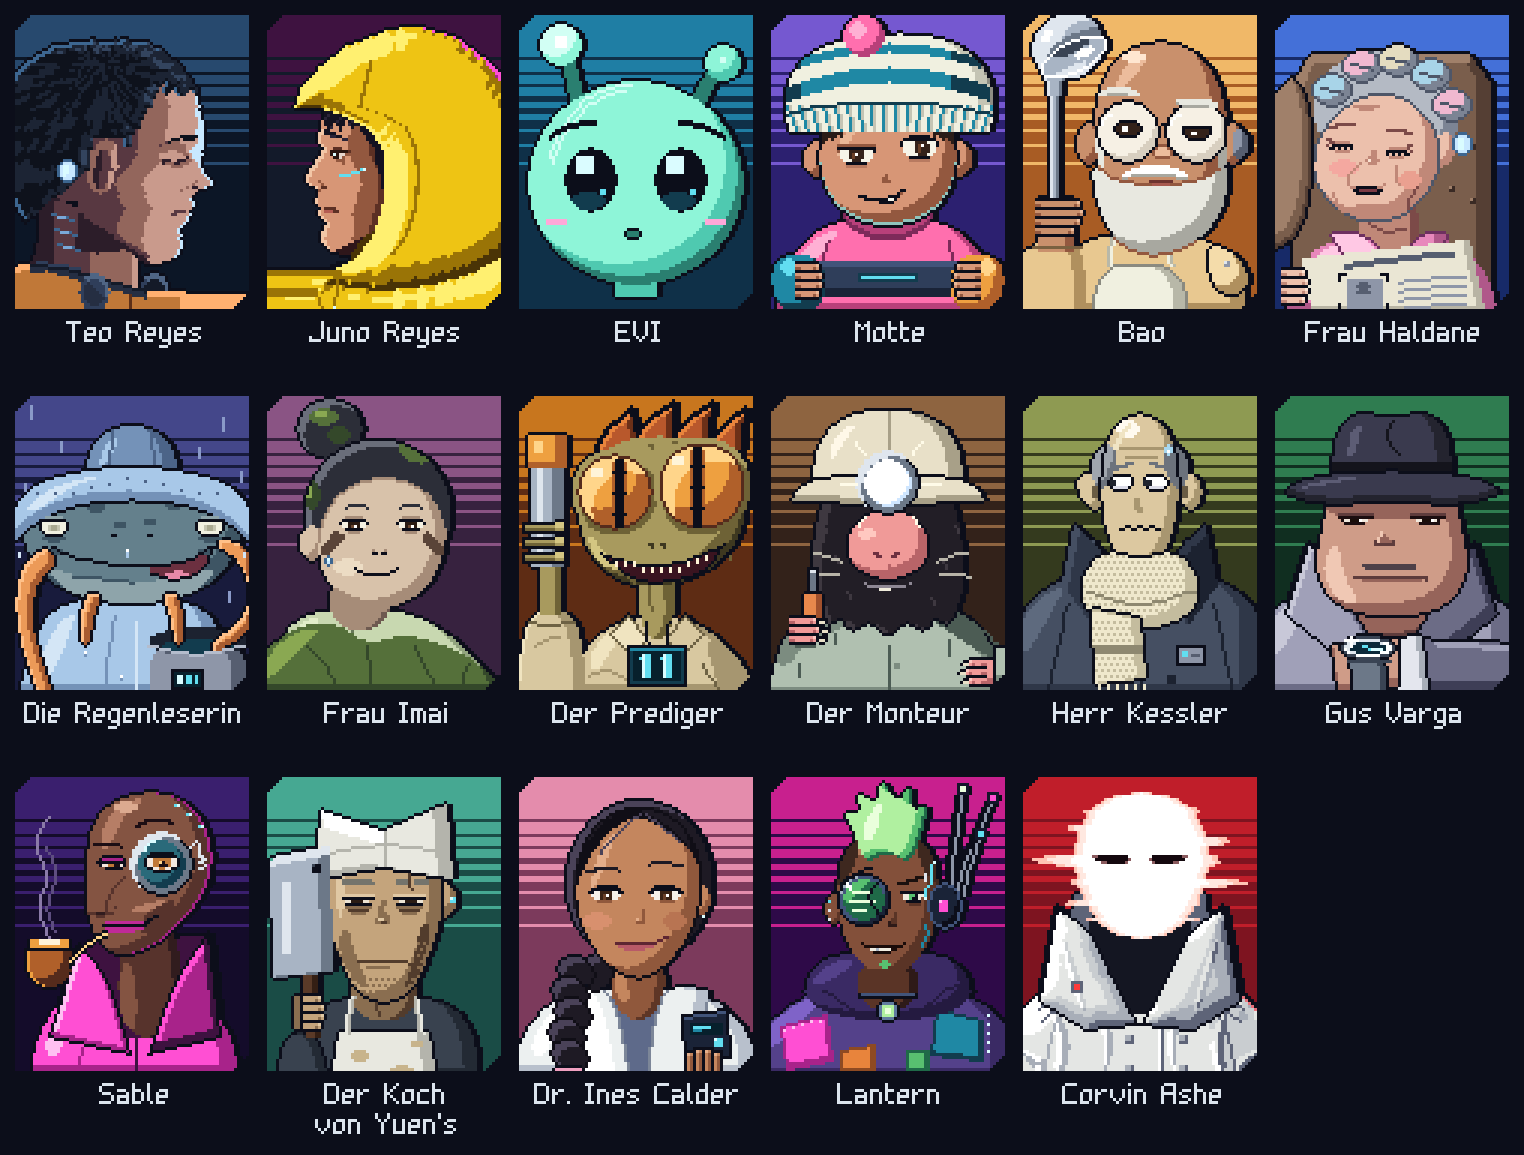
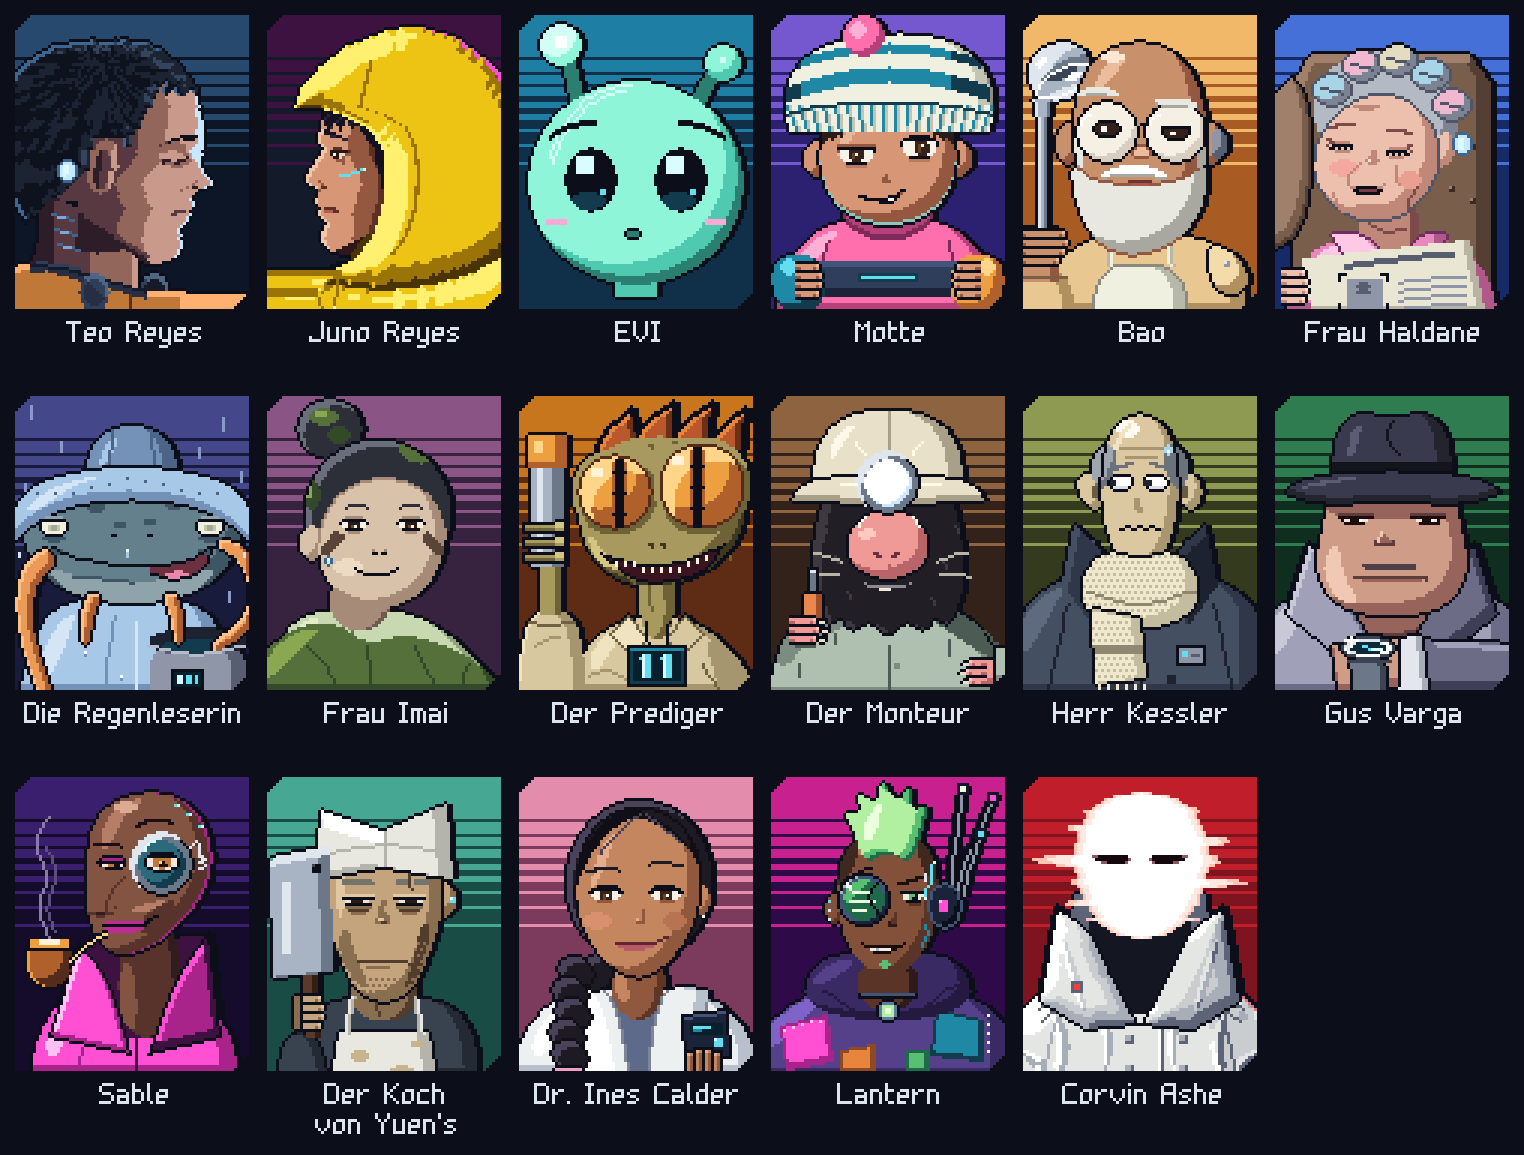
Bao's portrait: his head now stands in the middle of the picture over his shoulders, seven pixels further left with the glasses, the beard and the hearing aid, where it had sat to the right and looked odd, as the user said. The arm and the ladle go down and to the left: the fist now sits at the bott

Changed region(s): [[0.6476, 0.0, 0.8327, 0.2805]]

diff --git a/art/portraits/portraits.px.js b/art/portraits/portraits.px.js
@@ -676,44 +676,45 @@ portrait("bao", PANELS.bao, (p) => {
   fold.sep()
   p.rect(68, 83, 2, 2, "#8e96a8"); p.put(68, 83, "#dfe6ee")
   // the arm, up to the side; the ladle held by the end of its handle, its bowl by his head
-  const sleeve = p.part("-4,104! -2,84 6,76 18,76 22,84 22,104!", C.base)
+  const sleeve = p.part("-8,104! -6,94 2,86 14,86 18,94 18,104!", C.base)
   sleeve.edge(4, 0, C.dim)
-  const hand = p.part("6,62! 18,62! 18,80! 6,80!", S.base)
+  const hand = p.part("1,72! 13,72! 13,90! 1,90!", S.base)
   hand.edge(3, 0, S.dim)
-  p.line("4,78 20,78", C.deep)
+  p.line("-1,88 15,88", C.deep)
   // a real soup ladle (the user's photo): a thin straight handle running up to the low side of the rim, flaring just where it meets it
-  const handle = p.part("10,68! 13,68! 13,27 15,22! 8,22! 10,27", STEEL.base)
+  const handle = p.part("6,78! 9,78! 9,34 11,29! 4,29! 6,34", STEEL.base)
   handle.edge(1, 0, STEEL.dim)
   handle.edge(-1, 0, STEEL.lit)
   // the bowl, a half sphere tipped toward his head: its pale back above, below that the polished inside, a mirror of dark and white with a bright rim
   // its rim lies on the 2:1 slope, the one diagonal that stays a clean line at this size
   const TILT = -0.4636
-  const back = p.part(oval(16, 11.5, 12.5, 11, TILT), STEEL.lit)
-  back.tone(oval(21, 8, 8, 5, TILT), STEEL.base)
-  back.tone(oval(9, 8, 2.5, 1.5, -0.9), "#ffffff")
-  back.tone(oval(19, 11.5, 11.5, 4.5, TILT), STEEL.dim)
-  const mouth = p.part(oval(18, 15, 12.5, 5.5, TILT), STEEL.base)
-  mouth.tone(oval(17, 12, 7, 2, TILT), STEEL.deep)
-  mouth.tone(oval(21.5, 13.5, 3.5, 1.6, TILT), "#ffffff")
-  mouth.tone(oval(16, 20, 7.5, 1.5, TILT), STEEL.lit)
+  const back = p.part(oval(13.2, 19.9, 11, 9.7, TILT), STEEL.lit)
+  back.tone(oval(17.6, 16.8, 7, 4.4, TILT), STEEL.base)
+  back.tone(oval(7.1, 16.8, 2.2, 1.3, -0.9), "#ffffff")
+  back.tone(oval(15.9, 19.9, 10, 4, TILT), STEEL.dim)
+  const mouth = p.part(oval(15, 23, 11, 4.8, TILT), STEEL.base)
+  mouth.tone(oval(14.1, 20.4, 6, 1.8, TILT), STEEL.deep)
+  mouth.tone(oval(18.1, 21.7, 3, 1.4, TILT), "#ffffff")
+  mouth.tone(oval(13.2, 27.4, 6.6, 1.3, TILT), STEEL.lit)
   mouth.ink("#ffffff")
   // the head: a wide egg; the ears first, the hearing aid on his left
-  for (const [x, y] of [[23, 44], [71, 44]]) { const e = p.part(oval(x, y, 4, 7), S.base); e.edge(2, 2, S.dim) }
-  const head = p.part("24,38 28,20 38,11 52,10 62,16 68,28 70,44 66,62 56,72 40,72 28,62", S.base)
+  for (const [x, y] of [[16, 44], [64, 44]]) { const e = p.part(oval(x, y, 4, 7), S.base); e.edge(2, 2, S.dim) }
+  const head = p.part("17,38 21,20 31,11 45,10 55,16 61,28 63,44 59,62 49,72 33,72 21,62", S.base)
   head.edge(5, 5, S.dim)
-  head.tone("30,28 36,16 44,13 38,22", S.lit)
-  head.tone(oval(38, 15, 4, 2), "#ffe6d0")
+  head.sep()
+  head.tone("23,28 29,16 37,13 31,22", S.lit)
+  head.tone(oval(31, 15, 4, 2), "#ffe6d0")
   // the white beard, up round the jaw from one ear to the other, the moustache on it
-  const beard = p.part("24,50 30,56 40,58 52,58 62,56 70,50 68,66 60,76 48,81 38,80 30,74 25,62", H.base)
+  const beard = p.part("17,50 23,56 33,58 45,58 55,56 63,50 61,66 53,76 41,81 31,80 23,74 18,62", H.base)
   beard.edge(4, 4, H.dim)
   beard.sep(S.dim)
-  head.tone("24,40! 28,40! 28,52! 24,50!", H.base)
-  head.tone("66,40! 70,40! 70,52! 66,52!", H.dim)
-  const hearing = p.part("71,38 76,40 76,48 71,50", GREY.base)
+  head.tone("17,40! 21,40! 21,52! 17,50!", H.base)
+  head.tone("59,40! 63,40! 63,52! 59,52!", H.dim)
+  const hearing = p.part("64,38 69,40 69,48 64,50", GREY.base)
   hearing.edge(2, 2, GREY.dim)
   p.outline()
   // the fingers round the handle
-  fingers(p, 5, 62, [15, 16, 15, 13], S)
+  fingers(p, 0, 72, [15, 16, 15, 13], S)
   // the glasses, huge, and behind them his eyes much too big
   const lens = (cx, cy, r) => {
     const l = head.within(oval(cx, cy, r), "#f6f0e4")
@@ -721,28 +722,28 @@ portrait("bao", PANELS.bao, (p) => {
     l.ink(INK)
     return l
   }
-  lens(36, 40, 11)
-  lens(59, 40, 11)
-  p.line("46,38 49,37", INK)
+  lens(29, 40, 11)
+  lens(52, 40, 11)
+  p.line("39,38 42,37", INK)
   const E = { k: INK, i: "#34221a", g: "#ffffff", d: "#b09888", s: S.dim }
   // the left brow up, the right lid down: tasting, unsentimental
-  p.grid(31, 36, ["..kkkkkk..", ".kiiiiiik.", "kiiggiiiik", "kiiggiiiik", ".kiiiiiik.", "..kkkkkk.."], E)
-  p.grid(54, 38, ["kkkkkkkkkk", "kiiiiiiiik", "kiiggiiiik", ".kiiiiiik.", "..kkkkkk.."], E)
+  p.grid(24, 36, ["..kkkkkk..", ".kiiiiiik.", "kiiggiiiik", "kiiggiiiik", ".kiiiiiik.", "..kkkkkk.."], E)
+  p.grid(47, 38, ["kkkkkkkkkk", "kiiiiiiiik", "kiiggiiiik", ".kiiiiiik.", "..kkkkkk.."], E)
   // lens glints
-  p.line("27,37 30,34", "#ffffff"); p.line("50,37 53,34", "#ffffff")
+  p.line("20,37 23,34", "#ffffff"); p.line("43,37 46,34", "#ffffff")
   // the brows, white and untidy
-  p.grid(26, 25, ["...hhhhhhhh...", ".hhhhhhhhhhhh.", "hhhdddddddhhhh"], { h: H.base, d: H.dim })
-  p.grid(52, 29, ["hhhhhhhhhhhh..", "dhhhhhhhhhhhhh", "..dddddddddhhh"], { h: H.base, d: H.dim })
+  p.grid(19, 25, ["...hhhhhhhh...", ".hhhhhhhhhhhh.", "hhhdddddddhhhh"], { h: H.base, d: H.dim })
+  p.grid(45, 29, ["hhhhhhhhhhhh..", "dhhhhhhhhhhhhh", "..dddddddddhhh"], { h: H.base, d: H.dim })
   // the nose and the moustache; the mouth just showing
-  p.grid(44, 44, ["..sss..", ".sSSSs.", "sSSSSSs", "sSSSSSs", ".sssss."], { s: S.dim, S: S.lit })
-  p.grid(34, 51, [
+  p.grid(37, 44, ["..sss..", ".sSSSs.", "sSSSSSs", "sSSSSSs", ".sssss."], { s: S.dim, S: S.lit })
+  p.grid(27, 51, [
     "......hhhhhhhhhh......",
     "...hhhhhhhhhhhhhhhh...",
     ".hhhhhhhhhhhhhhhhhhhh.",
     "hhhdddddddddddddddhhhh",
     "dd................dddd",
   ], { h: H.lit, d: H.dim })
-  p.grid(42, 56, [".mmmmmmmm.", "..MMMMMM.."], { m: S.deep, M: "#a85a50" })
+  p.grid(35, 56, [".mmmmmmmm.", "..MMMMMM.."], { m: S.deep, M: "#a85a50" })
 })
 
 // ---------------------------------------------------------------- Frau Haldane
